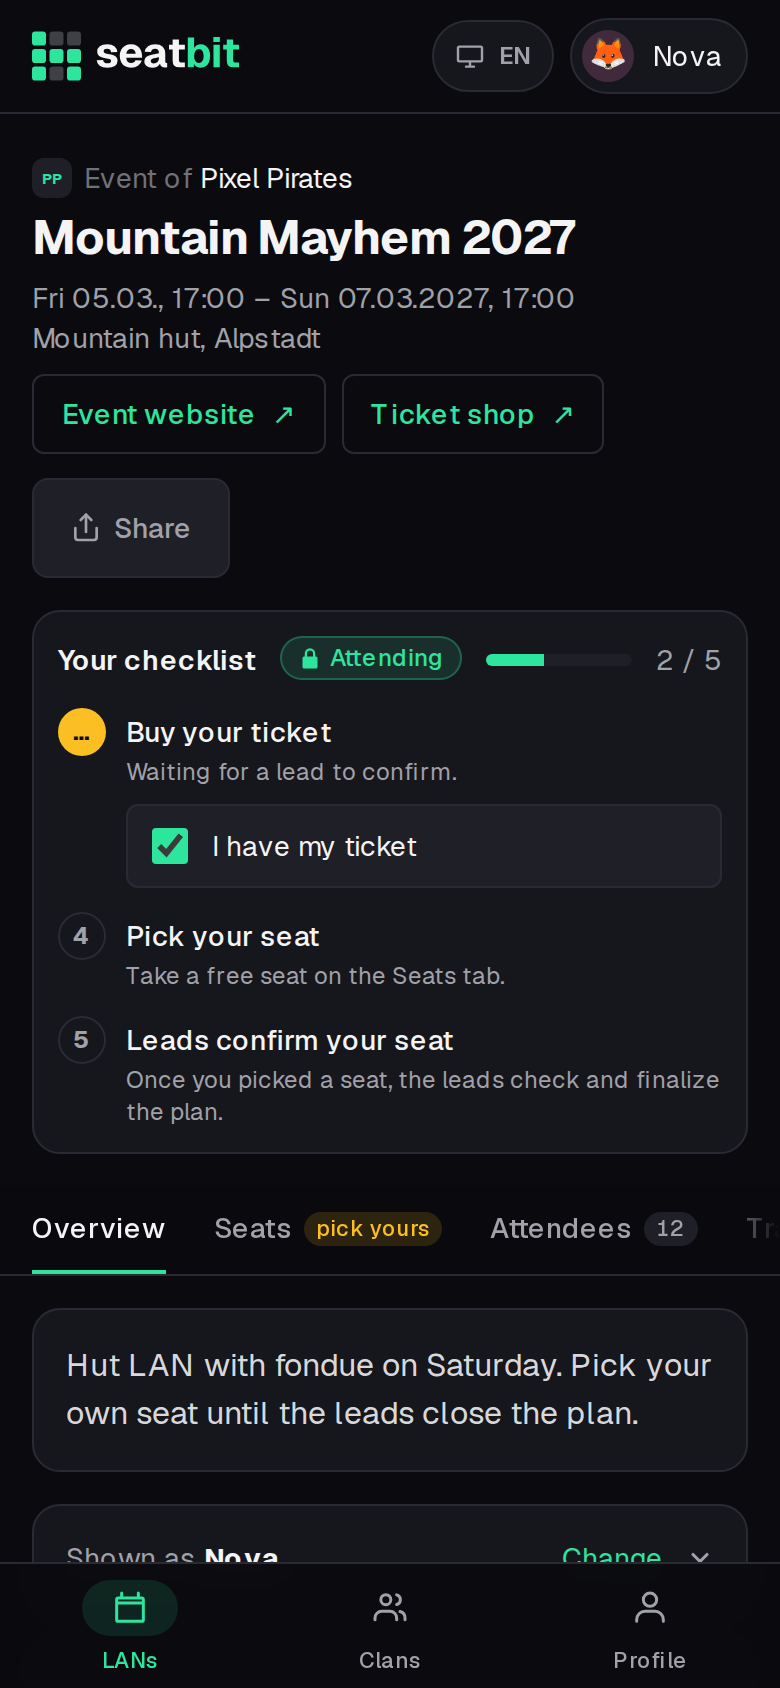
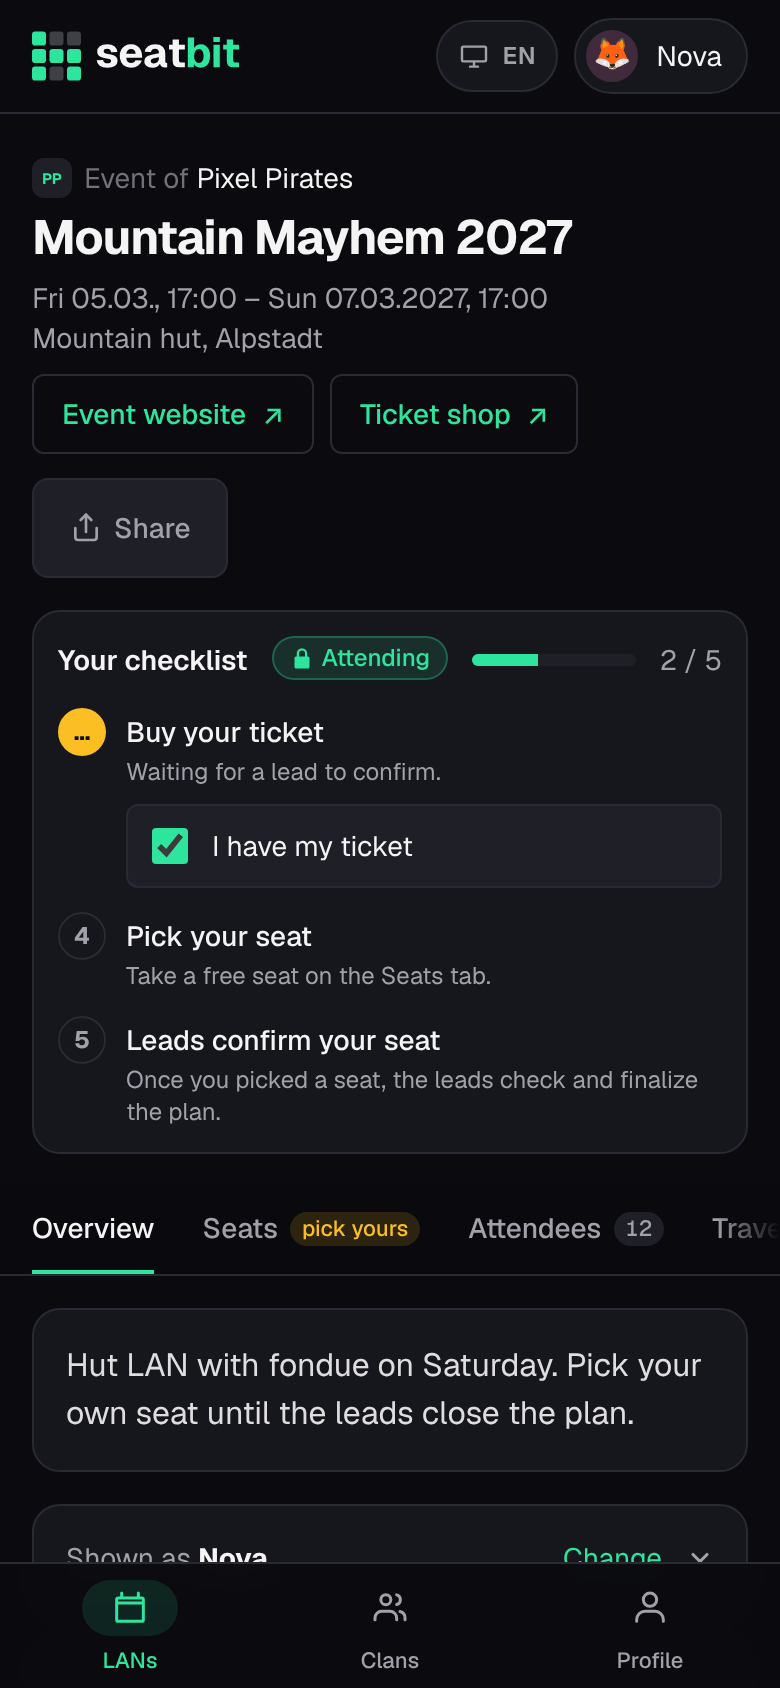
Self pick: show the picked seat in green instead of "pick yours"
Once a member took a seat while self pick is on, the Seats tab badge,
the seat plan pill and the checklist step say "A3 picked" (green)
instead of the yellow "pick yours" to-do. Tabs get a badgeTone.

Claude-Session: https://claude.ai/code/session_01Mn3pyoKV5mVXfXu1PoqMQW

diff --git a/src/app/lans/[id]/page.tsx b/src/app/lans/[id]/page.tsx
@@ -301,7 +301,12 @@ export default async function LanPage({ params, searchParams }: PageProps<"/lans
           {t("event.eventSeatPlan")} <span aria-hidden>↗</span>
         </a>
       )}
-      {picking && seats.length > 0 && <Pill tone="emerald">{t("event.pickYourSeat")}</Pill>}
+      {picking && seats.length > 0 &&
+        (mySeatLabel ? (
+          <Pill tone="emerald">{t("event.seatPicked", { seat: mySeatLabel })}</Pill>
+        ) : (
+          <Pill tone="amber">{t("event.pickYourSeat")}</Pill>
+        ))}
       {published ? <Pill tone="emerald">{t("event.final")}</Pill> : seats.length > 0 && <Pill tone="amber">{t("event.notFinal")}</Pill>}
     </span>
   );
@@ -399,7 +404,13 @@ export default async function LanPage({ params, searchParams }: PageProps<"/lans
       <Tabs
         tabs={[
           { id: "overview", label: t("event.tabs.overview") },
-          { id: "seats", label: t("event.tabs.seats"), badge: picking && seats.length > 0 ? t("event.tabs.pickYours") : undefined },
+          {
+            id: "seats",
+            label: t("event.tabs.seats"),
+            // Self pick: a to-do until you took a seat, then shows which one (green).
+            badge: picking && seats.length > 0 ? (mySeatLabel ? t("event.tabs.seatPicked", { seat: mySeatLabel }) : t("event.tabs.pickYours")) : undefined,
+            badgeTone: mySeatLabel ? "ok" : "warn",
+          },
           { id: "attendees", label: t("event.tabs.attendees"), count: going.length },
           { id: "travel", label: t("event.tabs.travel"), badge: openRequests ? t("event.tabs.looking", { count: openRequests }) : undefined },
           { id: "gear", label: t("event.tabs.gear") },

diff --git a/src/i18n/messages/de.ts b/src/i18n/messages/de.ts
@@ -260,6 +260,7 @@ export const de: Messages = {
       games: "Games",
       food: "Essen",
       pickYours: "wähl deinen",
+      seatPicked: "{seat} gewählt",
       looking: { one: "{count} sucht", other: "{count} suchen" },
       toInstall: "{count} installieren",
       open: "{count} offen",
@@ -284,6 +285,7 @@ export const de: Messages = {
     ourSeats: "Unsere Plätze",
     eventSeatPlan: "Sitzplan des Events",
     pickYourSeat: "Wähl deinen Platz",
+    seatPicked: "Platz {seat} gewählt",
     final: "Definitiv",
     notFinal: "Noch nicht definitiv",
     noSeatsYet: "Die Leads haben die Plätze der Gruppe noch nicht erfasst.",
@@ -2204,6 +2206,7 @@ export const de: Messages = {
     },
     pick: {
       title: "Wähl deinen Platz",
+      picked: "Platz {seat} gewählt",
       final: "Du sitzt auf {seat}.",
       took: "Du hast {seat} genommen. Im Tab Plätze kannst du noch wechseln.",
       closed: "Selbst wählen ist geschlossen. Die Leads teilen dich ein.",

diff --git a/src/i18n/messages/en.ts b/src/i18n/messages/en.ts
@@ -260,6 +260,7 @@ export const en = {
       games: "Games",
       food: "Food",
       pickYours: "pick yours",
+      seatPicked: "{seat} picked",
       looking: { one: "{count} looking", other: "{count} looking" },
       toInstall: "{count} to install",
       open: "{count} open",
@@ -284,6 +285,7 @@ export const en = {
     ourSeats: "Our seats",
     eventSeatPlan: "Event seat plan",
     pickYourSeat: "Pick your seat",
+    seatPicked: "Seat {seat} picked",
     final: "Final",
     notFinal: "Not final yet",
     noSeatsYet: "The leads haven't entered the group's seats yet.",
@@ -2190,6 +2192,7 @@ export const en = {
     },
     pick: {
       title: "Pick your seat",
+      picked: "Seat {seat} picked",
       final: "You sit at {seat}.",
       took: "You took {seat}. You can still change it on the Seats tab.",
       closed: "Self pick is closed. The leads place you.",

diff --git a/src/components/tabs.tsx b/src/components/tabs.tsx
@@ -8,6 +8,8 @@ export type Tab = {
   count?: number;
   /** Something needs attention, e.g. "2 to confirm". Shown in warning colour. */
   badge?: string;
+  /** warn (default): something to do. ok: done, e.g. a picked seat. */
+  badgeTone?: "warn" | "ok";
 };
 
 /**
@@ -51,7 +53,7 @@ export function Tabs({
                     </span>
                   )}
                   {t.badge && (
-                    <span className="rounded-full bg-warn/15 px-1.5 py-px text-[11px] font-medium text-warn">{t.badge}</span>
+                    <span className={`rounded-full px-1.5 py-px text-[11px] font-medium ${t.badgeTone === "ok" ? "bg-bit-soft text-bit" : "bg-warn/15 text-warn"}`}>{t.badge}</span>
                   )}
                 </Link>
               </li>

diff --git a/src/lib/checklist.ts b/src/lib/checklist.ts
@@ -82,7 +82,8 @@ export function buildChecklist(input: {
     if (lan.seatPicking) {
       steps.push({
         key: "pick",
-        title: t("checklist.pick.title"),
+        // Picked: say so in the title too, so it doesn't read like a to-do.
+        title: seatLabel ? t("checklist.pick.picked", { seat: seatLabel }) : t("checklist.pick.title"),
         state: seatLabel || final ? "done" : "todo",
         hint: seatLabel
           ? final

diff --git a/docs/features/attendance.md b/docs/features/attendance.md
@@ -75,7 +75,7 @@ Your checklist sits above the tabs on every tab of the event, on the LANs list (
 | 1. **Say you're coming** | You answered *Coming*. On the waitlist it shows your place (*You're #2 on the waitlist*). |
 | 2. **Give your nickname** | You have a nick (default, LAN type or event). |
 | 3. **Buy your ticket** | You ticked *I bought my ticket* before the *buy ticket by* date; a lead then confirms it. |
-| 4. **Pick your seat** | Only when the leads turned on [self pick](seats.md#seat-steps): you took a free seat. Needs your ticket first. |
+| 4. **Pick your seat** | Only when the leads turned on [self pick](seats.md#seat-steps): you took a free seat (the step then reads *Seat F8 picked*). Needs your ticket first. While self pick is on, the Seats tab shows *pick yours* in yellow until you have a seat, then your seat in green. |
 | 4. **Send seat wishes** (optional) | Instead of *Pick your seat* when self pick is off: you sent [seat wishes](seats.md#seat-steps). Hidden once the plan is final if you sent none. |
 | 5. **Leads confirm your seat** | The leads finalized the seat plan and you have a seat. Until then it waits on them (also after you picked your own seat). With an event seat plan, the hint says whether the leads already [booked it there](seats.md#book-on-the-event-site). |
 | **Install the games** (optional) | After step 5, when someone voted for [games](games.md): you marked every voted game as installed. |
